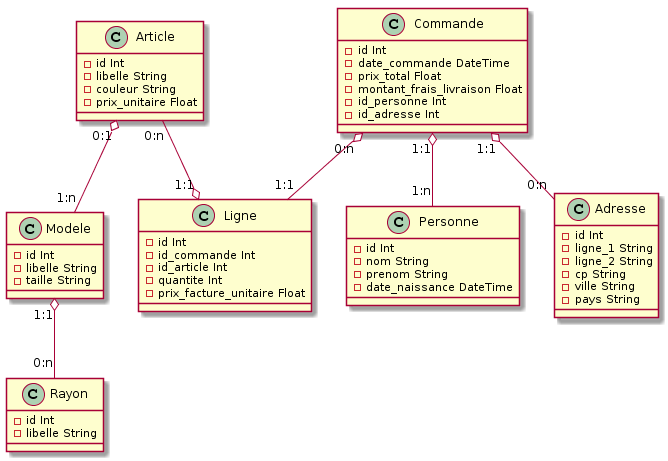
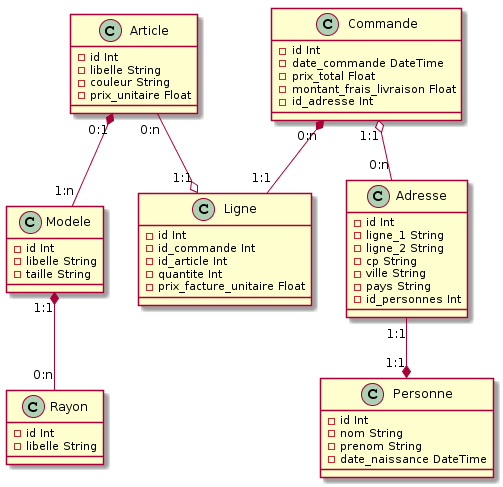
:ambulance: change relation between commande & adresse

diff --git a/src/main/java/com/marchand/m1iii/model/Adresse.java b/src/main/java/com/marchand/m1iii/model/Adresse.java
@@ -6,6 +6,7 @@ import lombok.NoArgsConstructor;
 import javax.persistence.Entity;
 import javax.persistence.Id;
 import javax.persistence.OneToMany;
+import javax.persistence.OneToOne;
 
 @Entity
 @Data
@@ -18,5 +19,8 @@ public class Adresse {
     private String cp;
     private String ville;
     private String pays;
+
+    @OneToOne
+    private Personne personne;
 
 }

diff --git a/src/main/java/com/marchand/m1iii/model/Commande.java b/src/main/java/com/marchand/m1iii/model/Commande.java
@@ -20,8 +20,6 @@ public class Commande {
     @OneToMany
     @JoinColumn(name = "id_commande")
     private List<Ligne> ligne;
-    @OneToOne
-    private Personne personne;
 
     @OneToOne
     private Adresse adresse;
